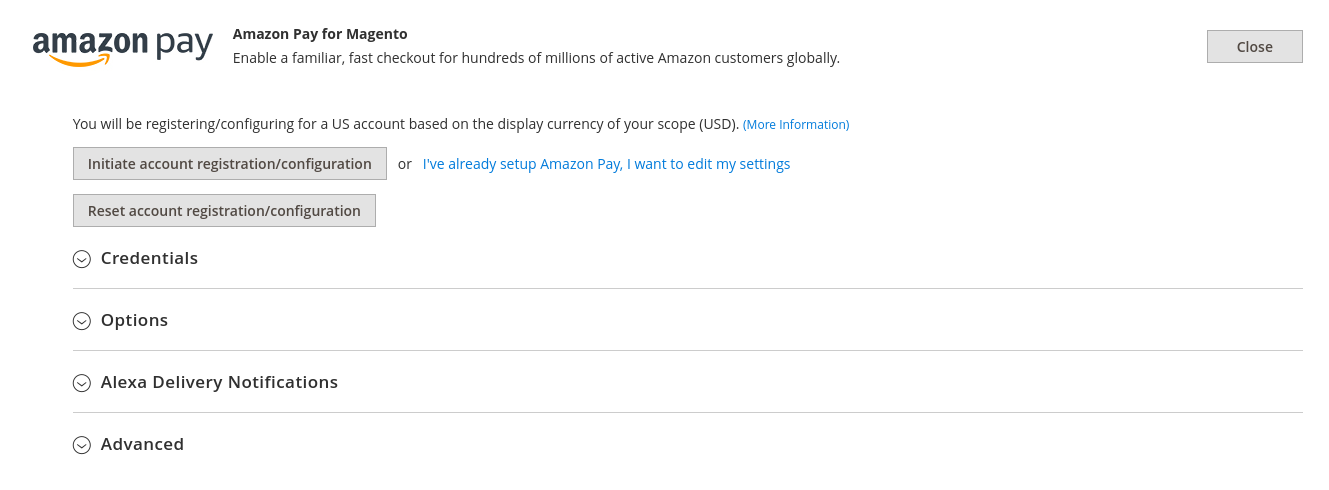
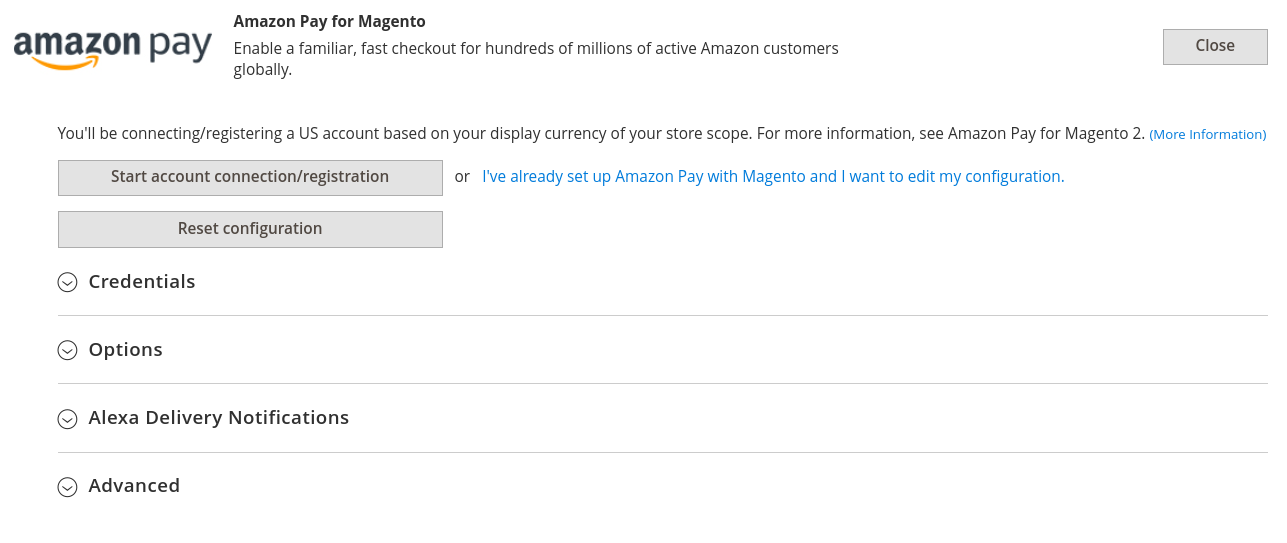
Updates for merchant facing strings

diff --git a/configuration.html b/configuration.html
@@ -28,7 +28,7 @@
             <li class="toctree-l1"><a class="reference internal" href="installation.html">Installation</a></li>
             <li class="toctree-l1 current"><a class="current reference internal" href="#">Configuration</a>
               <ul>
-                <li class="toctree-l2"><a class="reference internal" href="#enable-amazon-pay">Enable Amazon Pay</a>
+                <li class="toctree-l2"><a class="reference internal" href="#enable-amazon-pay">Amazon Pay</a>
                 </li>
                 <li class="toctree-l2"><a class="reference internal" href="#credentials">Credentials</a>
                   <ul>
@@ -49,7 +49,7 @@
                 </li>
                 <li class="toctree-l2"><a class="reference internal" href="#options">Options</a>
                   <ul>
-                    <li class="toctree-l3"><a class="reference internal" href="#enable-login-with-amazon">Enable Amazon
+                    <li class="toctree-l3"><a class="reference internal" href="#enable-login-with-amazon">Amazon
                         Sign-in</a></li>
                     <li class="toctree-l3"><a class="reference internal" href="#payment-action">Payment Action</a></li>
                     <li class="toctree-l3"><a class="reference internal" href="#authorization-mode">Authorization
@@ -66,15 +66,15 @@
                             Display Language</a></li>
                         <li class="toctree-l4"><a class="reference internal" href="#button-color">Button Color</a></li>
                         <li class="toctree-l4"><a class="reference internal"
-                            href="#show-amazon-pay-button-on-product-page">Show Amazon Pay button on product page</a>
+                            href="#show-amazon-pay-button-on-product-page">Amazon Pay button on product page</a>
                         </li>
                         <li class="toctree-l4"><a class="reference internal"
-                            href="#show-amazon-pay-button-in-minicart">Show Amazon Pay button in minicart</a></li>
-                        <li class="toctree-l4"><a class="reference internal"
-                            href="#show-login-with-amazon-in-authentication-popup">Show Amazon Sign-in in authentication
-                            popup</a></li>
-                        <li class="toctree-l4"><a class="reference internal" href="#show-amazon-pay-method">Show Amazon
-                            Pay Method</a></li>
+                            href="#show-amazon-pay-button-in-minicart">Amazon Pay button in minicart</a></li>
+                        <!-- <li class="toctree-l4"><a class="reference internal"
+                            href="#show-login-with-amazon-in-authentication-popup">Amazon Sign-in in authentication
+                            popup</a></li> -->
+                        <li class="toctree-l4"><a class="reference internal" href="#show-amazon-pay-method">Amazon
+                            Pay in final checkout step</a></li>
                       </ul>
                     </li>
                     <li class="toctree-l3"><a class="reference internal" href="#sales-options">Sales Options</a>
@@ -159,7 +159,7 @@
                   href="https://sellercentral.amazon.com/cu/contact-us">https://sellercentral.amazon.com/cu/contact-us</a>.
                 </p>
                 <div class="section" id="enable-amazon-pay">
-                  <h2>Enable Amazon Pay<a class="headerlink" href="#enable-amazon-pay"
+                  <h2>Amazon Pay<a class="headerlink" href="#enable-amazon-pay"
                       title="Permalink to this headline">¶</a></h2>
                   <p>By switching this option you can enable or disable <strong>Amazon Pay</strong>. This option must be
                     enabled if you want to provide the Amazon Pay service to your customers.</p>
@@ -255,13 +255,13 @@
                   <h3>Initiate Configuration<a class="headerlink" href="#initiate-exchange"
                     title="Permalink to this headline">¶</a></h3>
                   <p>To begin automatically transferring keys from your Seller Central account, open the Amazon Pay configuration options and click 
-                    the <cite>Initiate account registration/configuration</cite> button.</p>
+                    the <cite>Start account connection/registration</cite> button.</p>
                   <img alt="_images/ake_initiate.png" src="_images/ake_initiate.png" />
                   <p>A series of Amazon-hosted prompts will follow to finish setting up the transfer from Seller Central.</p>
                   <div class="admonition note">
                     <p class="first admonition-title">Note</p>
                     <p class="last">If you are trying to automatically register/configure your account and it is not working, try clicking the 
-                      <cite>Reset account registration/configuration</cite> button to reset the internal public/private key, and then retry the 
+                      <cite>Reset configuration</cite> button to reset the internal public/private key, and then retry the 
                       transfer process.</p>
                   </div>
                 </div>
@@ -294,8 +294,46 @@
               </div>
               <div class="section" id="options">
                 <h2>Options<a class="headerlink" href="#options" title="Permalink to this headline">¶</a></h2>
+                <div class="section" id="use-multi-currency">
+                  <h4>Multi-currency Functionality<a class="headerlink" href="#use-multi-currency"
+                      title="Permalink to this headline">¶</a></h4>
+                  <p>Enables the multi-currency feature of Amazon Pay for Magento 2.</p>
+                  <div class="admonition note">
+                    <p class="first admonition-title">Note</p>
+                    <p class="last">Multi-currency is currently supported for <cite>Payment Region Euro Region</cite>
+                      and <cite>United Kingdom</cite> only. If you are using a different <cite>Payment Region</cite>,
+                      this option will not be available. Moreover, Magento <cite>General ‣ Currency Setup ‣ Display
+                        Currency</cite> value should always match <cite>Payment Region</cite> in order for the Amazon
+                      Pay service to be enabled and the Checkout buttons to appear.</p>
+                  </div>
+                  <p>The feature includes the following currencies, that will be able to be included in Magento
+                    <cite>General ‣ Currency Setup ‣ Allowed Currencies</cite>:</p>
+                  <ul class="simple">
+                    <li>Australian Dollar (AUD)</li>
+                    <li>British Pound (GBP)</li>
+                    <li>Danish Krone (DKK)</li>
+                    <li>Euro (EUR)</li>
+                    <li>Hong Kong Dollar (HKD)</li>
+                    <li>Japanese Yen (JPY)</li>
+                    <li>New Zealand Dollar (NZD)</li>
+                    <li>Norwegian Krone (NOK)</li>
+                    <li>South African Rand (ZAR)</li>
+                    <li>Swedish Krone (SEK)</li>
+                    <li>Swiss Franc (CHF)</li>
+                    <li>United States Dollar (USD)</li>
+                  </ul>
+                  <p>The Amazon Pay multi-currency feature is designed for international merchants who list prices in
+                    more than one currency on their website and charge their customers the exact amount quoted on the
+                    site. When you enable multi-currency, you are not limited by the currency associated with your
+                    Amazon Pay merchant account (the ledger currency in which you receive disbursements from Amazon
+                    Pay). The multi-currency feature is offered by Amazon Services Europe SARL.
+                    <br>The benefit to your customers is that they don’t need to worry about currency conversion or
+                    rates when shopping with their Amazon account. Any of our global 300MM Amazon buyers can check-out
+                    on your website with their existing Amazon account.
+                  </p>
+                </div>
                 <div class="section" id="enable-amazon-signin">
-                  <h3>Enable Amazon Sign-in<a class="headerlink" href="#enable-amazon-signin"
+                  <h3>Amazon Sign-in<a class="headerlink" href="#enable-amazon-signin"
                       title="Permalink to this headline">¶</a></h3>
                   <p>By switching this option you can toggle <a class="reference internal" href="signin.html"><strong>Amazon Sign-in</strong></a>. When enabled this will log
                     customers into Magento via their Amazon account. If disabled, customers using Amazon Pay will be
@@ -340,7 +378,7 @@
               <h2>Alexa Delivery Notifications<a class="headerlink" href="#alexa-delivery-notifications"
                   title="Permalink to this headline">¶</a></h2>
               <div class="section" id="alexa-delivery-notifications">
-                <h4>Enable Alexa Delivery Notifications<a class="headerlink" href="#enable-alexa-delivery-notifications"
+                <h4>Alexa Delivery Notifications<a class="headerlink" href="#enable-alexa-delivery-notifications"
                     title="Permalink to this headline">¶</a></h4>
                 <p>Once enabled, Amazon Pay will deliver Alexa Delivery notifications to the customer’s Alexa device, when the
                   order is ‘out for delivery' and when it’s 'delivered'. Click <a class="reference external"
@@ -375,17 +413,17 @@
                     <p>Allows selection of button color from a pre determined list.</p>
                   </div>
                   <div class="section" id="show-amazon-pay-button-on-product-page">
-                    <h4>Show Amazon Pay button on product page<a class="headerlink"
+                    <h4>Amazon Pay button on product page<a class="headerlink"
                         href="#show-amazon-pay-button-on-product-page" title="Permalink to this headline">¶</a></h4>
                     <p>Toggles whether to show the <strong>Amazon Pay</strong> button on the product detail pages.</p>
                   </div>
                   <div class="section" id="show-amazon-pay-button-in-minicart">
-                    <h4>Show Amazon Pay button in minicart<a class="headerlink"
+                    <h4>Amazon Pay button in minicart<a class="headerlink"
                         href="#show-amazon-pay-button-in-minicart" title="Permalink to this headline">¶</a></h4>
                     <p>Toggles whether to show the <strong>Amazon Pay</strong> button in the Magento minicart.</p>
                   </div>
                   <div class="section" id="show-amazon-pay-method">
-                    <h4>Show Amazon Pay in payment methods<a class="headerlink" href="#show-amazon-pay-method"
+                    <h4>Amazon Pay in final checkout step<a class="headerlink" href="#show-amazon-pay-method"
                         title="Permalink to this headline">¶</a></h4>
                     <p>If enabled, Amazon Pay is presented as an option in the list of available payment methods during
                       the final step of checkout.</p>
@@ -399,71 +437,34 @@
                 <div class="section" id="sales-options">
                   <h3>Sales Options<a class="headerlink" href="#sales-options" title="Permalink to this headline">¶</a>
                   </h3>
-                  <div class="section" id="use-multi-currency">
-                    <h4>Use Multi-currency<a class="headerlink" href="#use-multi-currency"
+                  <div class="section" id="store-name">
+                    <h4>Store Name<a class="headerlink" href="#store-name" title="Permalink to this headline">¶</a>
+                    </h4>
+                    <p>Allows setting the store name submitted to Amazon Pay per Store View.</p>
+                  </div>
+                  <div class="section" id="hide-product-categories">
+                    <h4>Restrict Product Categories<a class="headerlink" href="#hide-product-categories"
                         title="Permalink to this headline">¶</a></h4>
-                    <p>Enables the multi-currency feature of Amazon Pay for Magento 2.</p>
-                    <div class="admonition note">
-                      <p class="first admonition-title">Note</p>
-                      <p class="last">Multi-currency is currently supported for <cite>Payment Region Euro Region</cite>
-                        and <cite>United Kingdom</cite> only. If you are using a different <cite>Payment Region</cite>,
-                        this option will not be available. Moreover, Magento <cite>General ‣ Currency Setup ‣ Display
-                          Currency</cite> value should always match <cite>Payment Region</cite> in order for the Amazon
-                        Pay service to be enabled and the Checkout buttons to appear.</p>
-                    </div>
-                    <p>The feature includes the following currencies, that will be able to be included in Magento
-                      <cite>General ‣ Currency Setup ‣ Allowed Currencies</cite>:</p>
-                    <ul class="simple">
-                      <li>Australian Dollar (AUD)</li>
-                      <li>British Pound (GBP)</li>
-                      <li>Danish Krone (DKK)</li>
-                      <li>Euro (EUR)</li>
-                      <li>Hong Kong Dollar (HKD)</li>
-                      <li>Japanese Yen (JPY)</li>
-                      <li>New Zealand Dollar (NZD)</li>
-                      <li>Norwegian Krone (NOK)</li>
-                      <li>South African Rand (ZAR)</li>
-                      <li>Swedish Krone (SEK)</li>
-                      <li>Swiss Franc (CHF)</li>
-                      <li>United States Dollar (USD)</li>
-                    </ul>
-                    <p>The Amazon Pay multi-currency feature is designed for international merchants who list prices in
-                      more than one currency on their website and charge their customers the exact amount quoted on the
-                      site. When you enable multi-currency, you are not limited by the currency associated with your
-                      Amazon Pay merchant account (the ledger currency in which you receive disbursements from Amazon
-                      Pay). The multi-currency feature is offered by Amazon Services Europe SARL.
-                      <br>The benefit to your customers is that they don’t need to worry about currency conversion or
-                      rates when shopping with their Amazon account. Any of our global 300MM Amazon buyers can check-out
-                      on your website with their existing Amazon account.
+                    <p>Allows hiding Amazon Pay as a Checkout and payment solution for specific Product Categories.
                     </p>
-                    <div class="section" id="store-name">
-                      <h4>Store Name<a class="headerlink" href="#store-name" title="Permalink to this headline">¶</a>
-                      </h4>
-                      <p>Allows setting the store name submitted to Amazon Pay per Store View.</p>
-                    </div>
-                    <div class="section" id="hide-product-categories">
-                      <h4>Restrict Product Categories<a class="headerlink" href="#hide-product-categories"
-                          title="Permalink to this headline">¶</a></h4>
-                      <p>Allows hiding Amazon Pay as a Checkout and payment solution for specific Product Categories.
-                      </p>
-                    </div>
                   </div>
-                  <div class="section" id="shipping-restrictions">
-                    <h3>Shipping Restrictions<a class="headerlink" href="#shipping-restrictions"
-                        title="Permalink to this headline">¶</a></h3>
-                    <div class="section" id="restrict-po-boxes">
-                      <h4>Restrict PO Boxes<a class="headerlink" href="#restrict-po-boxes"
-                          title="Permalink to this headline">¶</a></h4>
-                      <p>In Amazon hosted page, it marks PO box addresses in US, CA, GB, FR, DE, ES, PT, IT, AU as
-                        restricted in the Customer's shipping address selection.</p>
-                    </div>
-                    <div class="section" id="restrict-packstations">
-                      <h4>Restrict Packstations<a class="headerlink" href="#restrict-packstations"
-                          title="Permalink to this headline">¶</a></h4>
-                      <p>In Amazon hosted page, Marks packstation addresses in DE as restricted in the Customer's
-                        shipping address selection.</p>
-                    </div>
+                </div>
+                <div class="section" id="shipping-restrictions">
+                  <h3>Shipping Restrictions<a class="headerlink" href="#shipping-restrictions"
+                      title="Permalink to this headline">¶</a></h3>
+                  <div class="section" id="restrict-po-boxes">
+                    <h4>Restrict Post Office Boxes<a class="headerlink" href="#restrict-po-boxes"
+                        title="Permalink to this headline">¶</a></h4>
+                    <p>In Amazon hosted page, it marks PO box addresses in US, CA, GB, FR, DE, ES, PT, IT, AU as
+                      restricted in the Customer's shipping address selection.</p>
                   </div>
+                  <div class="section" id="restrict-packstations">
+                    <h4>Restrict Packstations<a class="headerlink" href="#restrict-packstations"
+                        title="Permalink to this headline">¶</a></h4>
+                    <p>In Amazon hosted page, Marks packstation addresses in DE as restricted in the Customer's
+                      shipping address selection.</p>
+                  </div>
+                </div>
                   <div class="section" id="developer-options">
                     <h3>Developer Options<a class="headerlink" href="#developer-options"
                         title="Permalink to this headline">¶</a></h3>
@@ -473,6 +474,11 @@
                         log files can be retrieved directly via the Magento 2 admin at <span
                           class="menuselection">System ‣ Amazon Pay Logs ‣ Client</span>, respectively <span
                           class="menuselection">System ‣ Amazon Pay Logs ‣ IPN</span></p>
+                    </div>
+                    <div class="section" id="developer-logs">
+                      <h4>Developer Logs<a class="headerlink" href="#developer-logs"
+                          title="Permalink to this headline">¶</a></h4>
+                      <p>Downloads a copy of the developer logs of the extension (Client logs and IPN logs).</p>
                     </div>
                     <div class="section" id="amazon-checkout-review-url">
                       <h4>Amazon Checkout Review Return URL<a class="headerlink" href="#amazon-checkout-review-url"
@@ -525,11 +531,6 @@
                         <p class="last">Due to caching restrictions this setting is not reflected on Product pages,
                           Please disable <cite>Amazon Pay button is visible on Product Page</cite> in this instance</p>
                       </div>
-                    </div>
-                    <div class="section" id="developer-logs">
-                      <h4>Developer Logs<a class="headerlink" href="#developer-logs"
-                          title="Permalink to this headline">¶</a></h4>
-                      <p>Downloads a copy of the developer logs of the extension (Client logs and IPN logs).</p>
                     </div>
                   </div>
                 </div>

diff --git a/customisation.html b/customisation.html
@@ -213,7 +213,7 @@
                       </p>
                       <div class="admonition note">
                         <p class="first admonition-title">Note</p>
-                        <p class="last">The configuration value for <cite>Enable Amazon Sign-in</cite> must be set to <b>Yes</b>
+                        <p class="last">The configuration value for <cite>Amazon Sign-in</cite> must be set to <b>Enabled</b>
                          in order to receive successful responses from the sign in endpoint.</p>
                       </div>
                   </div>
@@ -330,8 +330,8 @@
   &lt/div&gt</pre>
                     </div>
                   </div>
-                  <p>Be sure that your block class/layout files check to make sure the module is active, and the <em>Enable Amazon Sign-In</em> 
-                    setting is set to <strong>Yes</strong> before rendering. Refer to <a class="reference external" 
+                  <p>Be sure that your block class/layout files check to make sure the module is active, and the <em>Amazon Sign-In</em> 
+                    setting is set to <strong>Enabled</strong> before rendering. Refer to <a class="reference external" 
                     href="https://gist.github.com/sgabhart22/1e2f314ed5f1bdfe185d5a11b92882f7"
                     target="_blank">this gist</a> for a more complete example.</p>
                 </div>

diff --git a/index.html b/index.html
@@ -98,7 +98,7 @@
                     <li class="toctree-l1"><a class="reference internal" href="configuration.html">Configuration</a>
                       <ul>
                         <li class="toctree-l3"><a class="reference internal"
-                          href="configuration.html#enable-amazon-pay">Enable Amazon Pay</a></li>
+                          href="configuration.html#enable-amazon-pay">Amazon Pay</a></li>
                         <li class="toctree-l2"><a class="reference internal"
                             href="configuration.html#credentials">Credentials</a>
                           <ul>
@@ -126,7 +126,7 @@
                             href="configuration.html#options">Options</a>
                           <ul>
                             <li class="toctree-l3"><a class="reference internal"
-                                href="configuration.html#enable-amazon-signin">Enable Amazon Sign-in</a></li>
+                                href="configuration.html#enable-amazon-signin">Amazon Sign-in</a></li>
                             <li class="toctree-l3"><a class="reference internal"
                                 href="configuration.html#payment-action">Payment Action</a></li>
                             <li class="toctree-l3"><a class="reference internal"
